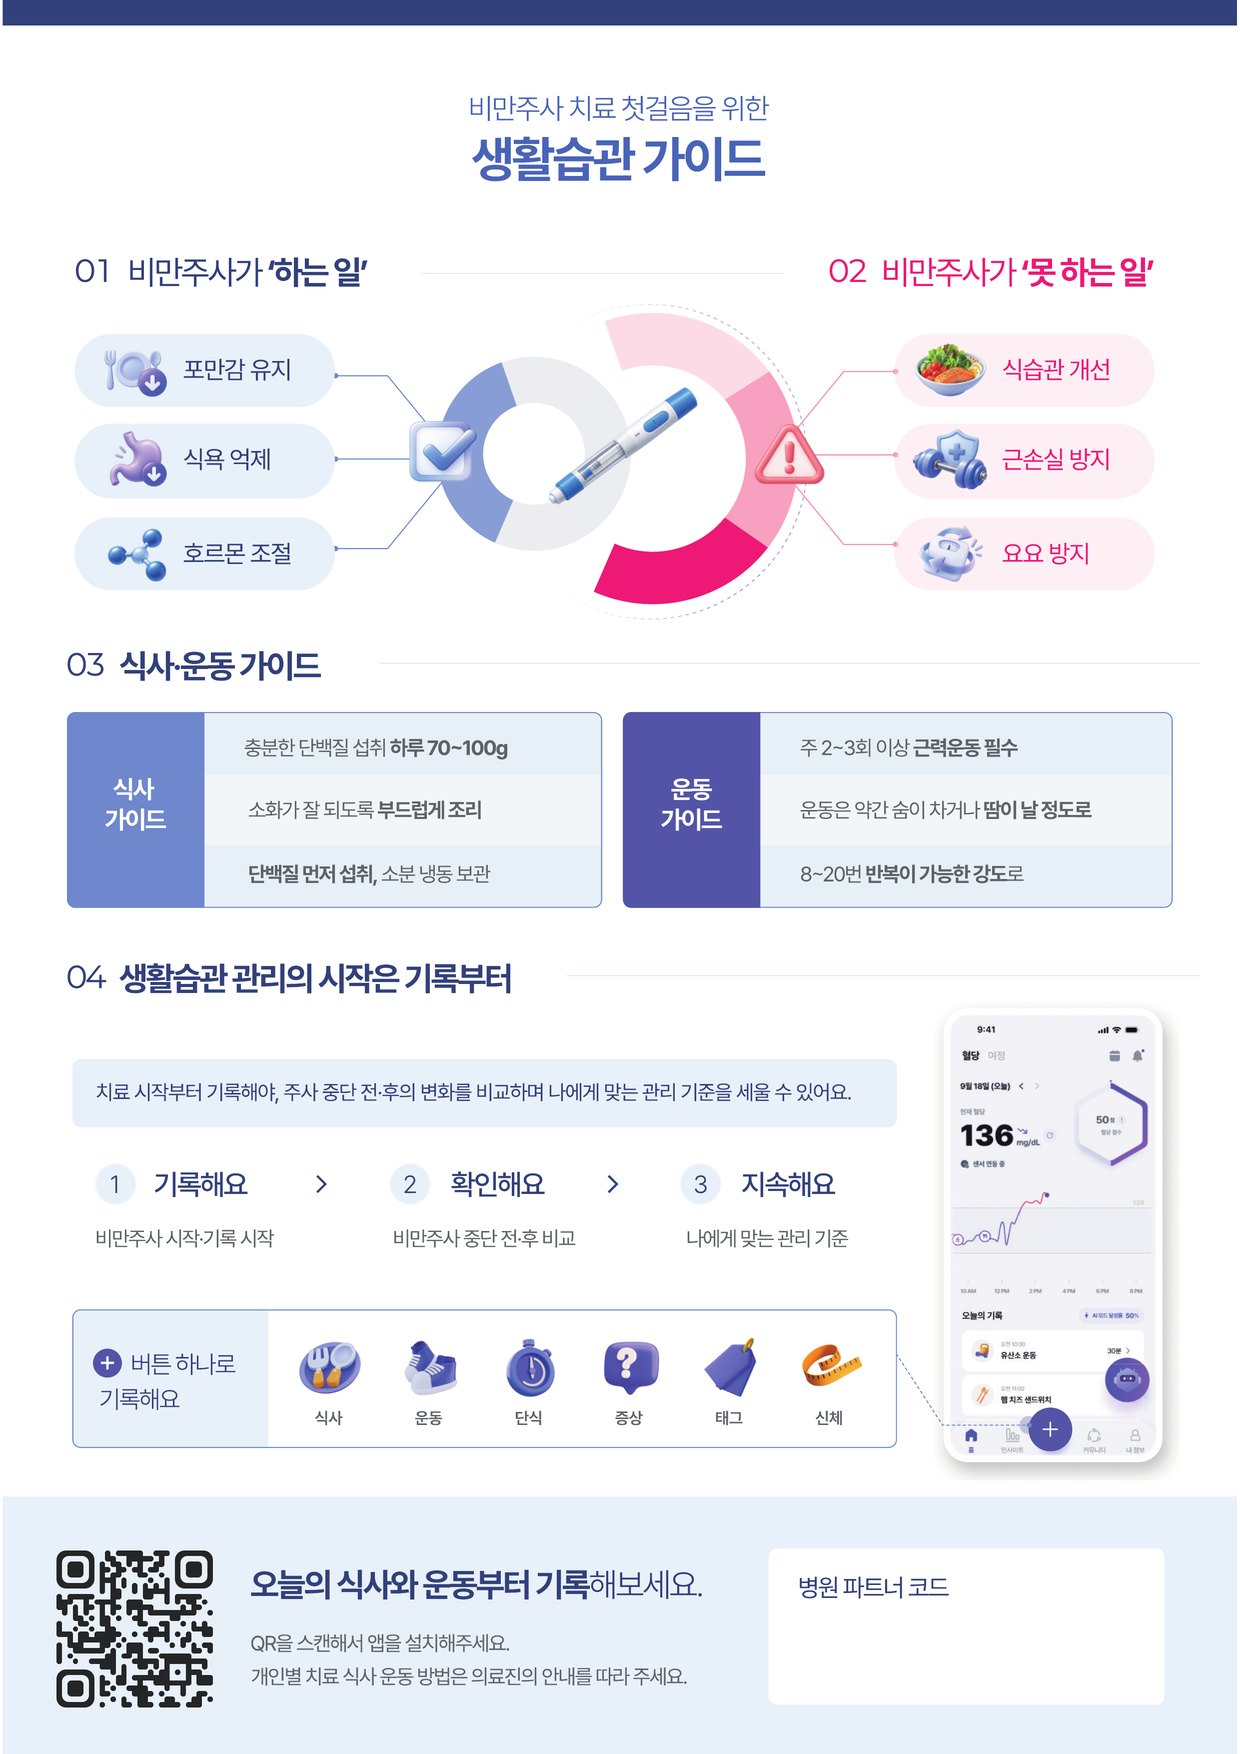
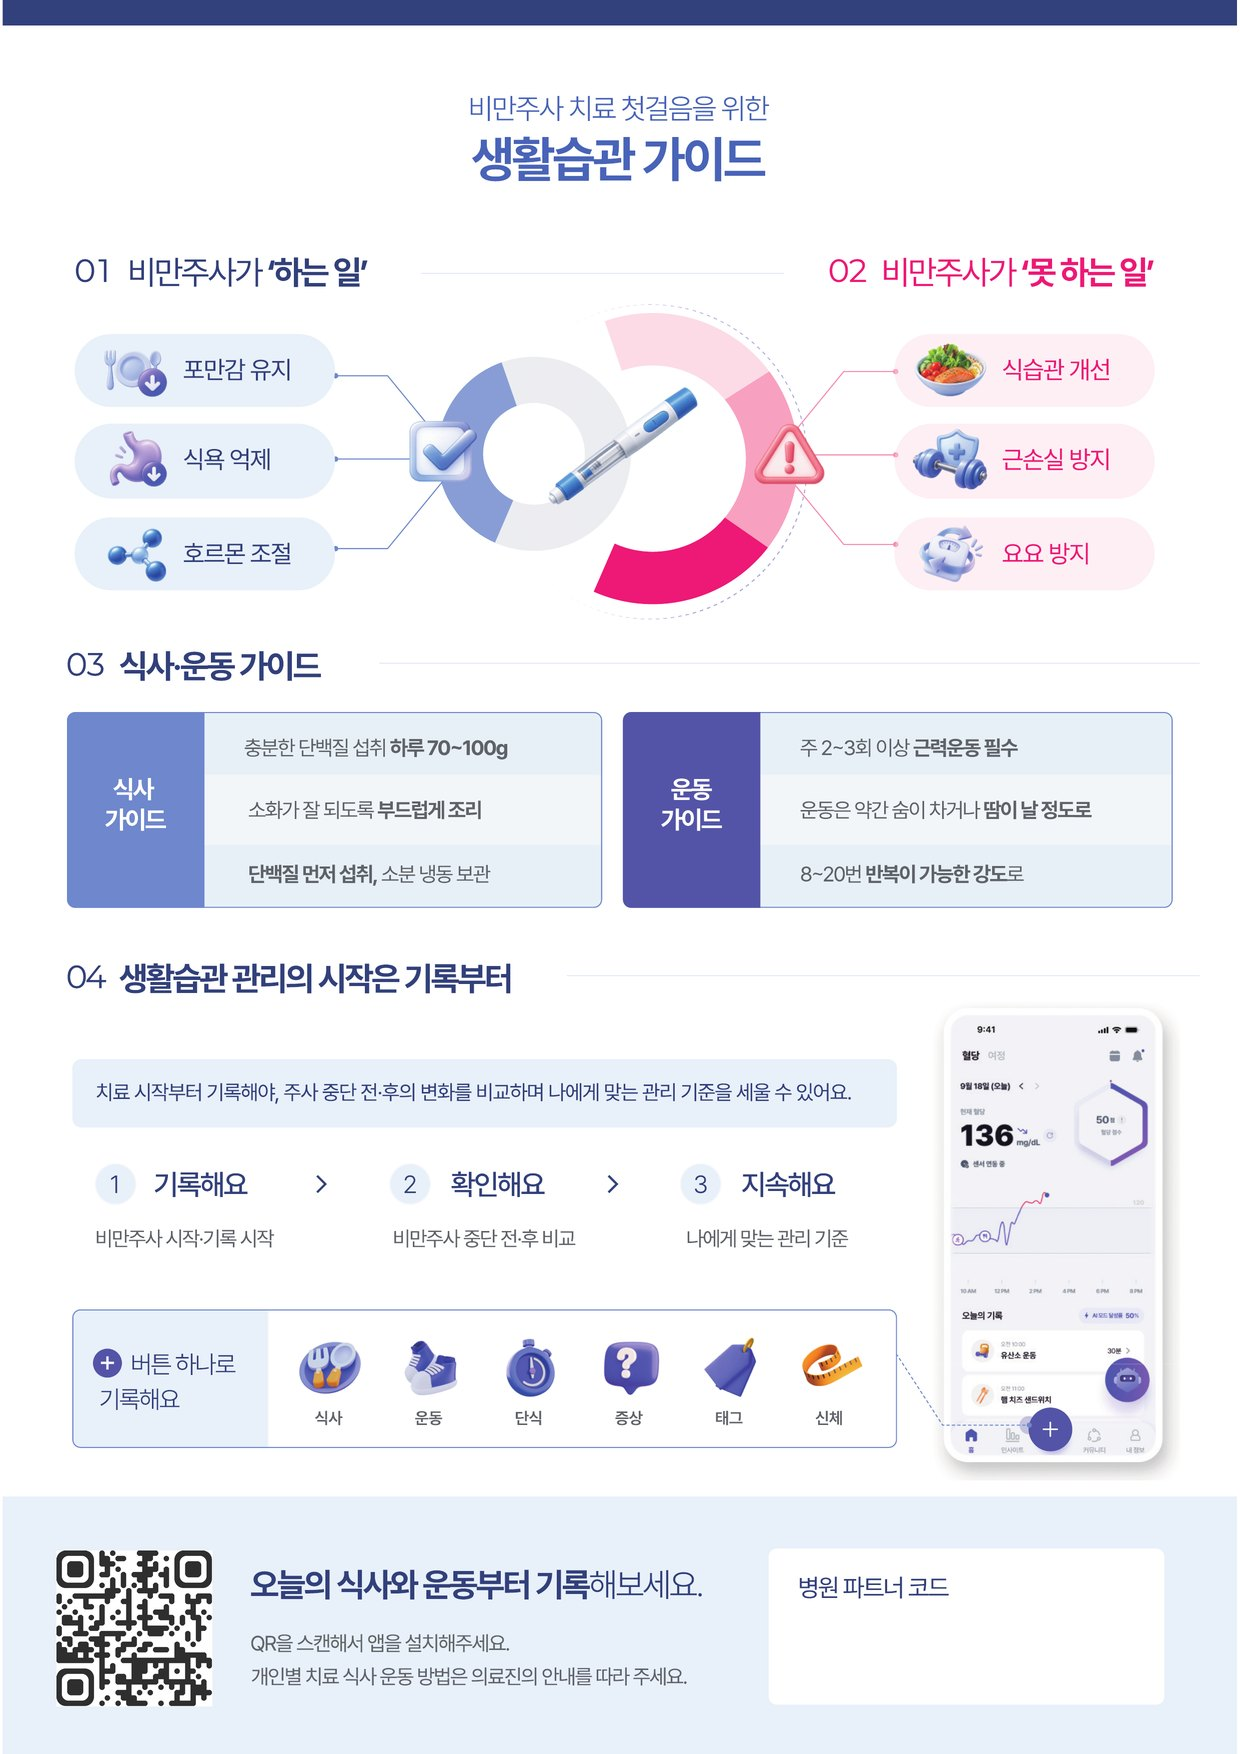
비만주사 앞면 QR을 웰다Y(…/2iwTr)로 교체
Claude-Session: https://claude.ai/code/session_01AKk4bTqnDpLfyQ7gsfwgmd

Changed region(s): [[0.0306, 0.862, 0.1839, 0.9852]]

diff --git a/index.html b/index.html
@@ -149,7 +149,7 @@ h1{margin:0;font-size:var(--fs-lg);font-weight:800;line-height:1.3;letter-spacin
   var VERS = {
     glp:{name:'비만주사 생활습관 가이드', file:'비만주사', pdf:'assets/glp.pdf', front:'assets/glp_front.jpg', back:'assets/glp_back.jpg',
          pw:595.28, ph:841.89, box:{x0:369.12,x1:558.72,y0:743.28,y1:817.92}, labelBottom:767.04,
-         qr:null},   // 디자인 원본에 QR이 이미 들어 있어 덮어쓰지 않음
+         qr:{x0:27.12,y0:744.24,x1:102.0,y1:819.6}, qrBg:[232,240,250]},
     dm: {name:'전당뇨·당뇨 생활습관 가이드', file:'당뇨', pdf:'assets/dm.pdf', front:'assets/dm_front.jpg', back:'assets/dm_back.jpg',
          pw:594.96, ph:841.92, box:{x0:372.0,x1:559.2,y0:750.72,y1:825.6}, labelBottom:770.88,
          qr:{x0:44.4,y0:759.12,x1:102.72,y1:817.44}, qrBg:[250,250,250]}
